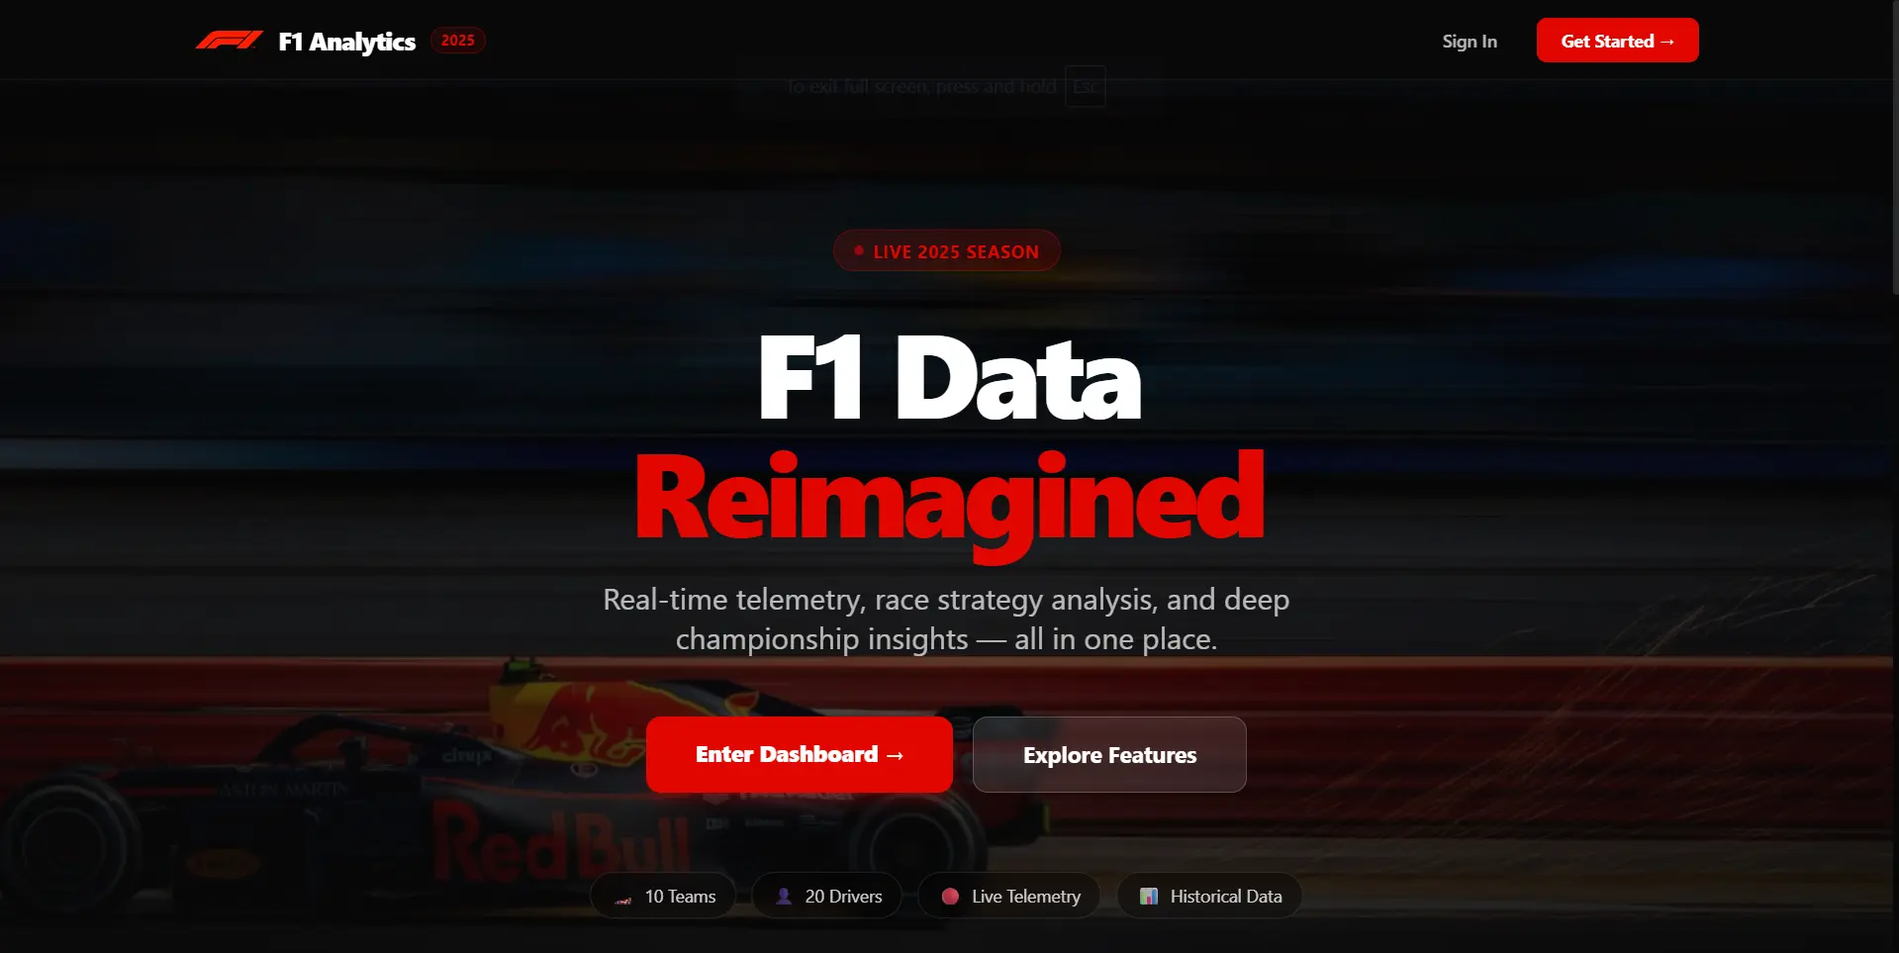
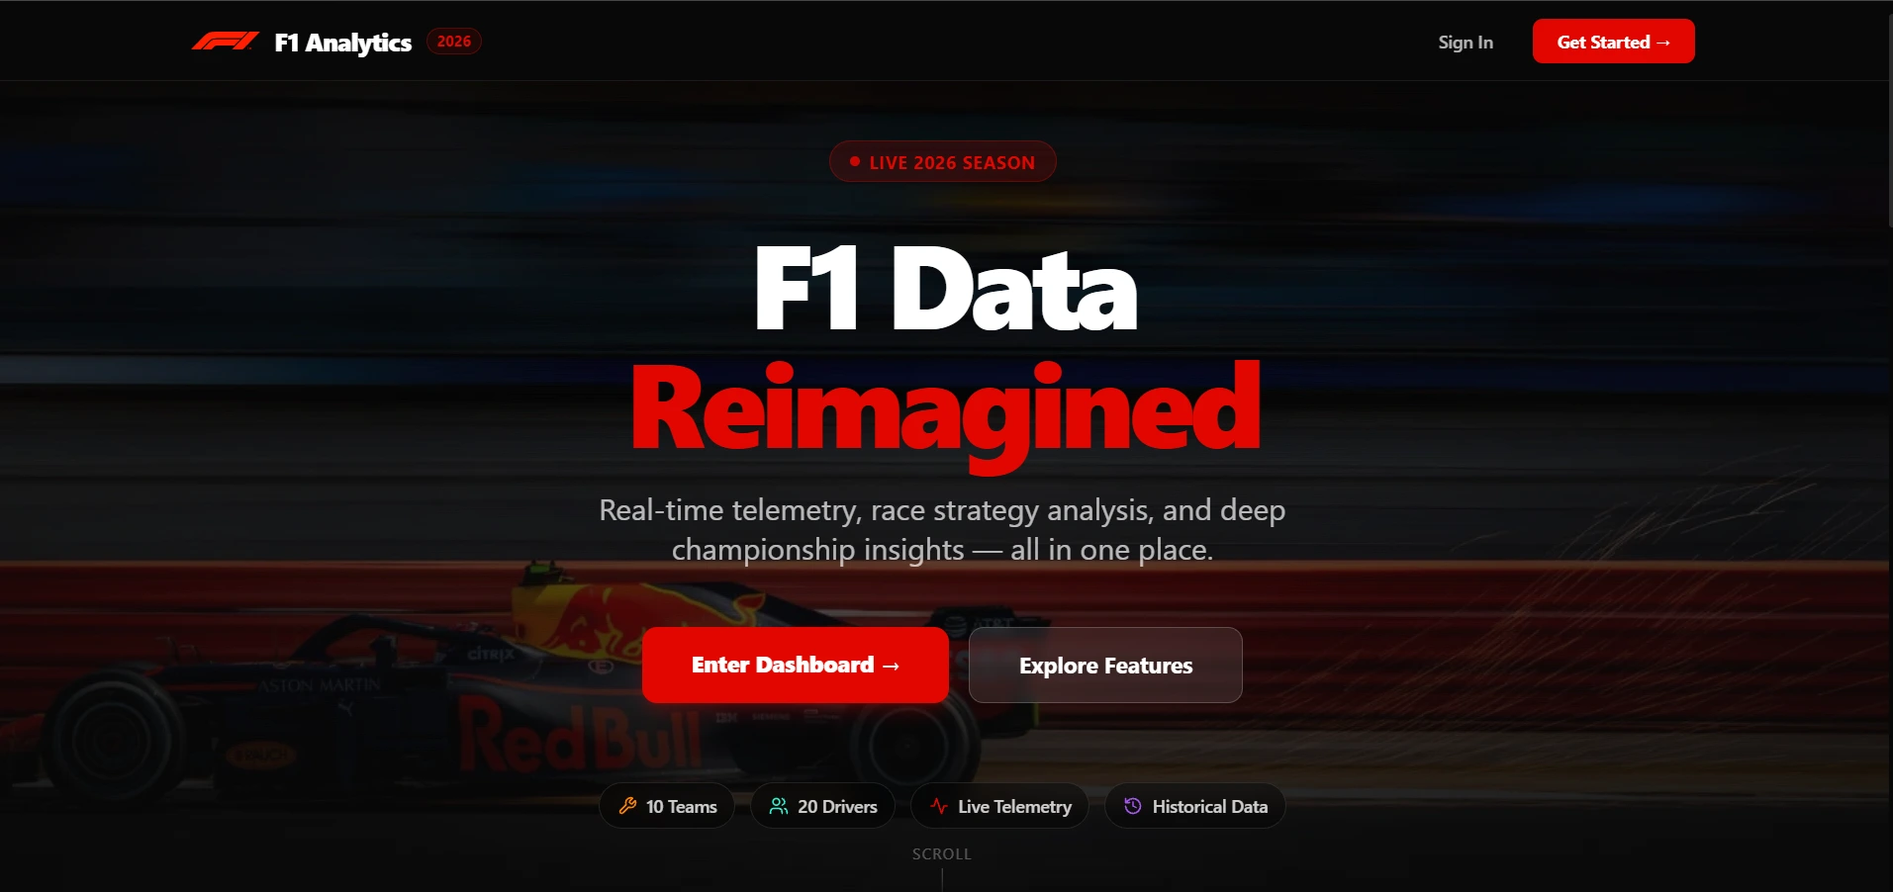
Refactor code structure for improved readability and maintainability

diff --git a/index.html b/index.html
@@ -20,7 +20,7 @@
   <meta name="keywords" content="Md. Jahidul Hasan, Md Jahidul Hasan, Mohammad Jahidul Hasan, Jahidul Hasan, Jahid Hasan, iammjh, iammjh.io, Jahidul Hasan BRACU, Jahidul Hasan BRAC University, BRAC University CS, BRAC University Computer Science, Backend Developer Bangladesh, Python Developer Dhaka, BUCC Executive, BUCC Assistant Director Event Management, Jahid backend developer, Jahidul Hasan GitHub, Jahidul Hasan portfolio" />
   <meta name="author" content="Md. Jahidul Hasan" />
   <meta name="robots" content="index, follow, max-image-preview:large" />
-  <link rel="image_src" href="https://iammjh.github.io/assets/mjahidul.jpg" />
+  <link rel="image_src" href="https://iammjh.github.io/assets/mjahidul.webp" />
 
   <!-- Google -->
   <meta name="google-site-verification" content="q9c3Bb6OedeqilD11PNTs4IgS_AJhRVNldypH9ippzw" />
@@ -30,8 +30,8 @@
   <meta property="og:url" content="https://iammjh.github.io/" />
   <meta property="og:title" content="Md. Jahidul Hasan — BRAC University CS Graduate | Backend Developer | AI/ML Enthusiast" />
   <meta property="og:description" content="Computer Science Graduate & Backend Developer from BRAC University. Building F1 Analytics Hub (full-stack Formula 1 platform) + 12 projects. Python | JavaScript | Next.js | MongoDB | FastAPI | AI/ML" />
-  <meta property="og:image" content="https://iammjh.github.io/assets/mjahidul.jpg" />
-  <meta property="og:image:secure_url" content="https://iammjh.github.io/assets/mjahidul.jpg" />
+  <meta property="og:image" content="https://iammjh.github.io/assets/mjahidul.webp" />
+  <meta property="og:image:secure_url" content="https://iammjh.github.io/assets/mjahidul.webp" />
   <meta property="profile:first_name" content="Jahidul" />
   <meta property="profile:last_name" content="Hasan" />
   <meta property="profile:username" content="iammjh" />
@@ -41,8 +41,8 @@
   <meta property="twitter:card" content="summary_large_image" />
   <meta property="twitter:url" content="https://iammjh.github.io/" />
   <meta property="twitter:title" content="Md. Jahidul Hasan — BRAC University CS Graduate | Backend Developer | AI/ML Enthusiast" />
-  <meta property="twitter:description" content="Computer Science Graduate | Backend Developer | Full-Stack Engineer. Currently building F1 Analytics Hub. Python, JavaScript, Next.js, FastAPI, MongoDB, AI/ML." />
-  <meta property="twitter:image" content="https://iammjh.github.io/assets/mjahidul.jpg" />
+  <meta property="twitter:description" content="Computer Science Graduate | Backend Developer | Full-Stack Engineer. Actively developing F1 Analytics Hub. Python, JavaScript, Next.js, FastAPI, MongoDB, AI/ML." />
+  <meta property="twitter:image" content="https://iammjh.github.io/assets/mjahidul.webp" />
   <meta property="twitter:creator" content="@iammjh" />
   <meta name="twitter:site" content="@iammjh" />
 
@@ -80,13 +80,13 @@
       "name": "Bangladesh"
     },
     "jobTitle": ["Backend Developer", "Computer Science Graduate"],
-    "description": "Md. Jahidul Hasan is a Computer Science graduate from BRAC University (Class of 2026), Department of Computer Science and Engineering, specializing in Full-Stack Development. Currently building F1 Analytics Hub (Formula 1 analytics platform with Next.js & backend services). Former Assistant Director of Event Management at BUCC (Dec 2024 – Feb 2026). Skills: Python, JavaScript, Next.js, FastAPI, MongoDB, AI/ML. Based in Dhaka, Bangladesh.",
+    "description": "Md. Jahidul Hasan is a Computer Science graduate from BRAC University (Class of 2026), Department of Computer Science and Engineering, specializing in Full-Stack Development. Actively developing F1 Analytics Hub (live Formula 1 analytics platform with Next.js & backend services). Former Assistant Director of Event Management at BUCC (Dec 2024 – Feb 2026). Skills: Python, JavaScript, Next.js, FastAPI, MongoDB, AI/ML. Based in Dhaka, Bangladesh.",
     "disambiguatingDescription": "Computer Science graduate from BRAC University (Class of 2026), not the clinical pharmacist or IT healthcare specialist",
     "url": "https://iammjh.github.io/",
     "mainEntityOfPage": "https://iammjh.github.io/",
     "image": {
       "@type": "ImageObject",
-      "url": "https://iammjh.github.io/assets/mjahidul.jpg",
+      "url": "https://iammjh.github.io/assets/mjahidul.webp",
       "caption": "Md. Jahidul Hasan - Backend Developer & Computer Science Graduate from BRAC University"
     },
     "email": "mohammadjahidulhasan@icloud.com",
@@ -363,11 +363,11 @@
     "name": "Md. Jahidul Hasan — Backend Developer & Computer Science Graduate Portfolio",
     "description": "Professional portfolio of Md. Jahidul Hasan, showcasing backend development projects, skills, and leadership experience at BRAC University.",
     "url": "https://iammjh.github.io/",
-    "image": "https://iammjh.github.io/assets/mjahidul.jpg",
-    "thumbnailUrl": "https://iammjh.github.io/assets/mjahidul.jpg",
+    "image": "https://iammjh.github.io/assets/mjahidul.webp",
+    "thumbnailUrl": "https://iammjh.github.io/assets/mjahidul.webp",
     "primaryImageOfPage": {
       "@type": "ImageObject",
-      "url": "https://iammjh.github.io/assets/mjahidul.jpg"
+      "url": "https://iammjh.github.io/assets/mjahidul.webp"
     },
     "dateCreated": "2024-01-01T00:00:00+06:00",
     "dateModified": "2026-07-02T00:00:00+06:00",
@@ -466,9 +466,9 @@
             "@id": "https://iammjh.github.io/#person"
           },
           "codeRepository": "https://github.com/iammjh/f1-analytics",
-          "url": "https://github.com/iammjh/f1-analytics",
+          "url": "https://f1-analytic.vercel.app/",
           "keywords": "Formula 1, F1, Analytics, Dashboard, Next.js, FastAPI, Real-time, Racing",
-          "status": "In Development"
+          "status": "Live - Active Development"
         }
       },
       {
@@ -734,7 +734,7 @@
 
       <div class="hero-bottom">
         <p class="hero-desc" id="heroDesc">
-          Computer Science graduate from <strong>BRAC University</strong> crafting backend systems, building full-stack products, and previously led event operations at BUCC for <strong>1400+ members</strong>. Currently building the F1 Analytics Hub.
+          Computer Science graduate from <strong>BRAC University</strong> crafting backend systems, building full-stack products, and previously led event operations at BUCC for <strong>1400+ members</strong>. Actively developing the F1 Analytics Hub.
         </p>
 
         <div class="hero-stats" id="heroStats">
@@ -867,7 +867,7 @@
           <h2 class="about-h dly-10" data-reveal="left">Building systems,<br>not just code.</h2>
           <div class="about-bio dly-20" data-reveal="left">
             <p>I'm a Computer Science graduate from <strong>BRAC University (Class of 2026)</strong>, under the Department of Computer Science & Engineering, who sits at the intersection of engineering and leadership. My backend work focuses on scalable, well-structured systems — not just getting things to work, but getting them to last.</p>
-            <p>Currently leading development on the <strong>F1 Analytics Hub</strong>, a full-stack Formula 1 platform with live dashboards, race telemetry, and personalized watchlists. I served as Assistant Director of Event Management at BUCC through February 2026, overseeing operations across 7 departments.</p>
+            <p>Actively developing the <strong>F1 Analytics Hub</strong>, a live full-stack Formula 1 platform with dashboards, race telemetry, and personalized watchlists. I served as Assistant Director of Event Management at BUCC through February 2026, overseeing operations across 7 departments.</p>
             <p>I believe the best engineers are also communicators and coordinators. That's the kind of developer I'm building myself into.</p>
           </div>
           <div class="about-stats-row dly-35" data-reveal="left">
@@ -893,7 +893,7 @@
           <div class="info-row"><span class="info-key">Email</span><span class="info-val"><a href="mailto:mohammadjahidulhasan@icloud.com">mohammadjahidulhasan@icloud.com</a></span></div>
         </div>
         <div class="edu-block">
-          <div class="edu-icon">🎓</div>
+          <div class="edu-icon"><svg class="pico" viewBox="0 0 24 24" fill="none" stroke="currentColor" stroke-width="1.5" stroke-linecap="round" stroke-linejoin="round" aria-hidden="true"><path d="M22 10 12 5 2 10l10 5 10-5z"/><path d="M6 12v5c0 0 3 3 6 3s6-3 6-3v-5"/><path d="M22 10v6"/></svg></div>
           <div class="edu-body">
             <h4>B.Sc. in Computer Science</h4>
             <p>Dept. of Computer Science & Engineering · BRAC University, Dhaka</p>
@@ -980,7 +980,7 @@
 
         <div class="ach-card">
           <div class="ach-top">
-            <div class="ach-icon-wrap">🏛</div>
+            <div class="ach-icon-wrap"><svg class="pico" viewBox="0 0 24 24" fill="none" stroke="currentColor" stroke-width="1.5" stroke-linecap="round" stroke-linejoin="round" aria-hidden="true"><path d="M3 21h18"/><path d="M6 21V7l8-4v18"/><path d="M18 21V11l-6-4"/><path d="M9 9h.01"/><path d="M9 12h.01"/><path d="M9 15h.01"/><path d="M9 18h.01"/></svg></div>
             <span class="ach-year">2020</span>
           </div>
           <div class="ach-title">General Scholarship</div>
@@ -994,7 +994,7 @@
 
         <div class="ach-card dly-10">
           <div class="ach-top">
-            <div class="ach-icon-wrap">⭐</div>
+            <div class="ach-icon-wrap"><svg class="pico" viewBox="0 0 24 24" fill="none" stroke="currentColor" stroke-width="1.5" stroke-linecap="round" stroke-linejoin="round" aria-hidden="true"><polygon points="12 2 15.09 8.26 22 9.27 17 14.14 18.18 21.02 12 17.77 5.82 21.02 7 14.14 2 9.27 8.91 8.26 12 2"/></svg></div>
             <span class="ach-year">2012</span>
           </div>
           <div class="ach-title">Talent Pool Scholarship</div>
@@ -1049,15 +1049,15 @@
           <div class="ps-img">
             <img src="assets/f1-analytics.webp" alt="F1 Analytics Hub" loading="eager">
             <span class="ps-num">01</span>
-            <span class="ps-badge ps-badge--t">Working On It</span>
+            <span class="ps-badge ps-badge--t">Live + Improving</span>
           </div>
           <div class="ps-info">
             <div class="ps-tags"><span class="tag tag-t">Next.js</span><span class="tag tag-w">Full-Stack</span><span class="tag tag-w">Analytics</span></div>
             <div class="ps-title">F1 Analytics Hub</div>
             <p class="ps-desc">Full-stack Formula 1 analytics platform — live dashboards, race telemetry, personalized watchlists, and real-time polling. My most ambitious build.</p>
             <div class="ps-links">
+              <a href="https://f1-analytic.vercel.app/" target="_blank" rel="noopener noreferrer" class="ps-link">Live ↗</a>
               <a href="https://github.com/iammjh/f1-analytics" target="_blank" rel="noopener noreferrer" class="ps-link">GitHub ↗</a>
-              <span class="ps-link ps-link--dim">In Development</span>
             </div>
           </div>
         </div>
@@ -1278,7 +1278,7 @@
 
       <!-- CARD 1 — always visible -->
       <div class="ac dly-05" data-reveal>
-        <div class="ac-head"><div class="ac-icon">👥</div><span class="ac-date">Dec 2024 – Feb 2026</span></div>
+        <div class="ac-head"><div class="ac-icon"><svg class="pico" viewBox="0 0 24 24" fill="none" stroke="currentColor" stroke-width="1.5" stroke-linecap="round" stroke-linejoin="round" aria-hidden="true"><path d="M16 21v-2a4 4 0 0 0-4-4H6a4 4 0 0 0-4 4v2"/><circle cx="9" cy="7" r="4"/><path d="M22 21v-2a4 4 0 0 0-3-3.87"/><path d="M16 3.13a4 4 0 0 1 0 7.75"/></svg></div><span class="ac-date">Dec 2024 – Feb 2026</span></div>
         <span class="ac-badge ab-e">Executive Body</span>
         <h3>BRAC University Computer Club</h3>
         <div class="ac-sub">Assistant Director — Event Management</div>
@@ -1288,7 +1288,7 @@
 
       <!-- CARD 2 — always visible -->
       <div class="ac dly-10" data-reveal>
-        <div class="ac-head"><div class="ac-icon">⌨</div><span class="ac-date">July 2025</span></div>
+        <div class="ac-head"><div class="ac-icon ac-icon--warm"><svg class="pico" viewBox="0 0 24 24" fill="none" stroke="currentColor" stroke-width="1.5" stroke-linecap="round" stroke-linejoin="round" aria-hidden="true"><polyline points="16 18 22 12 16 6"/><polyline points="8 6 2 12 8 18"/></svg></div><span class="ac-date">July 2025</span></div>
         <span class="ac-badge ab-o">Organizer</span>
         <h3>BUCC Bit Battles</h3>
         <div class="ac-sub">Intra BRAC University Programming Contest</div>
@@ -1298,7 +1298,7 @@
 
       <!-- CARD 3 — always visible -->
       <div class="ac dly-15" data-reveal>
-        <div class="ac-head"><div class="ac-icon">🏢</div><span class="ac-date">Dec 2024</span></div>
+        <div class="ac-head"><div class="ac-icon"><svg class="pico" viewBox="0 0 24 24" fill="none" stroke="currentColor" stroke-width="1.5" stroke-linecap="round" stroke-linejoin="round" aria-hidden="true"><rect x="4" y="2" width="16" height="20" rx="2"/><path d="M9 22v-4h6v4"/><path d="M8 6h.01"/><path d="M16 6h.01"/><path d="M12 6h.01"/><path d="M12 10h.01"/><path d="M12 14h.01"/><path d="M16 10h.01"/><path d="M16 14h.01"/><path d="M8 10h.01"/><path d="M8 14h.01"/></svg></div><span class="ac-date">Dec 2024</span></div>
         <span class="ac-badge ab-v">Executive Volunteer</span>
         <h3>TechConnect Career Fair</h3>
         <div class="ac-sub">Engineering & CS — Executive Volunteer</div>
@@ -1308,7 +1308,7 @@
 
       <!-- CARD 4 — always visible -->
       <div class="ac dly-20" data-reveal>
-        <div class="ac-head"><div class="ac-icon">⚡</div><span class="ac-date">Nov 2024</span></div>
+        <div class="ac-head"><div class="ac-icon ac-icon--warm"><svg class="pico" viewBox="0 0 24 24" fill="none" stroke="currentColor" stroke-width="1.5" stroke-linecap="round" stroke-linejoin="round" aria-hidden="true"><polygon points="13 2 3 14 12 14 11 22 21 10 12 10 13 2"/></svg></div><span class="ac-date">Nov 2024</span></div>
         <span class="ac-badge ab-v">Volunteer</span>
         <h3>IntraHacktive 1.0</h3>
         <div class="ac-sub">University Hackathon</div>
@@ -1318,7 +1318,7 @@
 
       <!-- CARD 5 — hidden, revealed on click -->
       <div class="ac ac-extra dly-05" data-reveal>
-        <div class="ac-head"><div class="ac-icon">🏃</div><span class="ac-date">School & College</span></div>
+        <div class="ac-head"><div class="ac-icon"><svg class="pico" viewBox="0 0 24 24" fill="none" stroke="currentColor" stroke-width="1.5" stroke-linecap="round" stroke-linejoin="round" aria-hidden="true"><circle cx="12" cy="5" r="2"/><path d="M10 22V16l-2-4 4-2 4 2-2 4v6"/></svg></div><span class="ac-date">School & College</span></div>
         <span class="ac-badge ab-c">Podium</span>
         <h3>Annual Sports Day — Long Jump</h3>
         <div class="ac-sub">Consecutive Placements, Track & Field</div>
@@ -1326,12 +1326,12 @@
         <div class="ac-thumbs">
           <img src="assets/longjump.webp" alt="Long Jump" class="ac-thumb" data-modal-open="#modal-longjump" data-nosnippet>
         </div>
-        <div class="ac-stats"><div><span class="acstat-v">2+</span><span class="acstat-l">Consecutive</span></div><div><span class="acstat-v">🥇🥈</span><span class="acstat-l">Placements</span></div></div>
+        <div class="ac-stats"><div><span class="acstat-v">2+</span><span class="acstat-l">Consecutive</span></div><div><span class="acstat-v">1st·2nd</span><span class="acstat-l">Placements</span></div></div>
       </div>
 
       <!-- CARD 6 — hidden, revealed on click -->
       <div class="ac ac-extra dly-10" data-reveal>
-        <div class="ac-head"><div class="ac-icon">🏆</div><span class="ac-date">BRAC University</span></div>
+        <div class="ac-head"><div class="ac-icon ac-icon--warm"><svg class="pico" viewBox="0 0 24 24" fill="none" stroke="currentColor" stroke-width="1.5" stroke-linecap="round" stroke-linejoin="round" aria-hidden="true"><path d="M6 9H4.5a2.5 2.5 0 0 1 0-5H6"/><path d="M18 9h1.5a2.5 2.5 0 0 0 0-5H18"/><path d="M4 22h16"/><path d="M10 22V11"/><path d="M14 22V11"/><path d="M8 9h8v4a4 4 0 0 1-8 0V9z"/></svg></div><span class="ac-date">BRAC University</span></div>
         <span class="ac-badge ab-c">Champion</span>
         <h3>Basketball Tournament</h3>
         <div class="ac-sub">RS Sports Events — Inter-House Championship</div>
@@ -1340,7 +1340,7 @@
           <img src="assets/basketball.webp" alt="Basketball Tournament" class="ac-thumb" data-modal-open="#modal-basketball-1" data-nosnippet>
           <img src="assets/thropy.webp" alt="Trophy" class="ac-thumb" data-modal-open="#modal-basketball-2" data-nosnippet>
         </div>
-        <div class="ac-stats"><div><span class="acstat-v">🏆</span><span class="acstat-l">Champion</span></div></div>
+        <div class="ac-stats"><div><span class="acstat-v"><svg class="pico" viewBox="0 0 24 24" fill="none" stroke="currentColor" stroke-width="1.5" stroke-linecap="round" stroke-linejoin="round" aria-hidden="true"><path d="M6 9H4.5a2.5 2.5 0 0 1 0-5H6"/><path d="M18 9h1.5a2.5 2.5 0 0 0 0-5H18"/><path d="M4 22h16"/><path d="M10 22V11"/><path d="M14 22V11"/><path d="M8 9h8v4a4 4 0 0 1-8 0V9z"/></svg></span><span class="acstat-l">Champion</span></div></div>
       </div>
 
       <!-- SHOW MORE button row -->
@@ -1408,7 +1408,7 @@
           <div class="fg"><label for="em">Email</label><input class="fi" type="email" id="em" name="email" placeholder="you@example.com" required></div>
           <div class="fg"><label for="msg">Message</label><textarea class="fta" id="msg" name="message" placeholder="Tell me about your project or opportunity..." required></textarea></div>
           <input type="hidden" name="_captcha" value="false">
-          <input type="hidden" name="_autoresponse" value="Hi there! 👋&#10;&#10;Thanks for reaching out! I've received your message and will get back to you as soon as possible.&#10;&#10;In the meantime, feel free to check out my GitHub (github.com/iammjh) or LinkedIn (linkedin.com/in/iammjh) to learn more about my work.&#10;&#10;Best regards,&#10;Md. Jahidul Hasan&#10;Backend Developer | B.Sc. Computer Science, BRAC University">
+          <input type="hidden" name="_autoresponse" value="Hi there!&#10;&#10;Thanks for reaching out! I've received your message and will get back to you as soon as possible.&#10;&#10;In the meantime, feel free to check out my GitHub (github.com/iammjh) or LinkedIn (linkedin.com/in/iammjh) to learn more about my work.&#10;&#10;Best regards,&#10;Md. Jahidul Hasan&#10;Backend Developer | B.Sc. Computer Science, BRAC University">
           <button type="submit" class="fs">Send Message →</button>
         </form>
       </div>
@@ -1421,7 +1421,7 @@
 <!-- ══════════════ SUCCESS POPUP ══════════════ -->
 <div class="success-popup" id="successPopup">
   <div class="success-popup-content">
-    <div class="success-popup-icon">✓</div>
+    <div class="success-popup-icon"><svg class="pico" viewBox="0 0 24 24" fill="none" stroke="currentColor" stroke-width="2.5" stroke-linecap="round" stroke-linejoin="round" aria-hidden="true"><polyline points="20 6 9 17 4 12"/></svg></div>
     <div class="success-popup-message">Message Sent Successfully!</div>
     <p class="success-popup-subtitle">Thank you for reaching out. I'll get back to you soon.</p>
     <button class="success-popup-close" type="button" data-popup-close>×</button>

diff --git a/style.css b/style.css
@@ -563,8 +563,27 @@ body.cur-link .cursor-ring{width:64px;height:64px;background:rgba(232,147,74,.07
 .edu-icon{
   width:48px;height:48px;border-radius:8px;flex-shrink:0;
   background:rgba(232,147,74,.1);border:1px solid rgba(232,147,74,.2);
-  display:flex;align-items:center;justify-content:center;font-size:1.2rem;
+  display:flex;align-items:center;justify-content:center;
+  color:var(--orange);
 }
+.ac-icon{
+  width:46px;height:46px;border-radius:8px;flex-shrink:0;
+  display:flex;align-items:center;justify-content:center;
+  border:1px solid var(--line);background:var(--s2);
+  color:var(--teal);
+}
+.ac-icon--warm{color:var(--orange)}
+.ach-icon-wrap{
+  width:44px;height:44px;border-radius:8px;
+  background:rgba(232,147,74,.08);border:1px solid rgba(232,147,74,.15);
+  display:flex;align-items:center;justify-content:center;
+  color:var(--orange);
+}
+.pico{display:block;flex-shrink:0}
+.edu-icon .pico,.ach-icon-wrap .pico{width:22px;height:22px}
+.ac-icon .pico{width:20px;height:20px}
+.acstat-v .pico{display:inline-block;width:1.1em;height:1.1em;vertical-align:-2px}
+.success-popup-icon .pico{width:28px;height:28px}
 .edu-body h4{font-family:'Bricolage Grotesque',sans-serif;font-weight:700;font-size:1rem;margin-bottom:3px;color:var(--text)}
 .edu-body p{font-size:.82rem;color:var(--muted)}
 .edu-year{margin-top:8px;font-size:.72rem;font-weight:700;color:var(--orange);letter-spacing:.04em}
@@ -877,11 +896,6 @@ body.cur-link .cursor-ring{width:64px;height:64px;background:rgba(232,147,74,.07
 .ac:hover{transform:translateY(-6px);border-color:rgba(232,147,74,.2);box-shadow:0 20px 48px rgba(0,0,0,.45);background:var(--accent-soft)}
 .ac:hover::before{opacity:1}
 .ac-head{display:flex;align-items:flex-start;justify-content:space-between;gap:12px;margin-bottom:16px}
-.ac-icon{
-  width:46px;height:46px;border-radius:8px;flex-shrink:0;
-  display:flex;align-items:center;justify-content:center;font-size:1.1rem;
-  border:1px solid var(--line);background:var(--s2);
-}
 .ac-date{font-size:.72rem;color:var(--dim);font-weight:500;letter-spacing:.03em;white-space:nowrap;margin-top:4px}
 .ac-badge{
   display:inline-block;margin-bottom:10px;
@@ -1128,11 +1142,6 @@ body.cur-link .cursor-ring{width:64px;height:64px;background:rgba(232,147,74,.07
 .ach-card:hover{transform:translateY(-4px);border-color:rgba(232,147,74,.2);box-shadow:0 16px 40px rgba(0,0,0,.4)}
 .ach-card:hover::before{opacity:1}
 .ach-top{display:flex;align-items:center;justify-content:space-between;margin-bottom:12px}
-.ach-icon-wrap{
-  font-size:1.4rem;width:44px;height:44px;border-radius:8px;
-  background:rgba(232,147,74,.08);border:1px solid rgba(232,147,74,.15);
-  display:flex;align-items:center;justify-content:center;
-}
 .ach-year{
   font-size:.72rem;font-weight:700;letter-spacing:.08em;text-transform:uppercase;
   color:var(--dim);background:var(--s2);border:1px solid var(--line);
@@ -1191,8 +1200,7 @@ body.cur-link .cursor-ring{width:64px;height:64px;background:rgba(232,147,74,.07
   width:64px;height:64px;border-radius:50%;
   background:rgba(110,207,207,.15);border:2px solid var(--teal);
   display:flex;align-items:center;justify-content:center;
-  font-size:2.5rem;color:var(--teal);margin:0 auto 20px;
-  font-weight:800;
+  color:var(--teal);margin:0 auto 20px;
   animation:checkmarkBounce .6s cubic-bezier(.16,1,.3,1) .2s backwards;
 }
 @keyframes checkmarkBounce{

diff --git a/sw.js b/sw.js
@@ -8,7 +8,7 @@ const ASSETS_TO_CACHE = [
   '/robots.txt',
   '/sitemap.xml',
   // Warm key visuals so repeat visits render quickly on weak connections.
-  '/assets/mjahidul.jpg',
+  '/assets/mjahidul.webp',
   '/assets/Re_Jahid.webp',
   '/assets/f1-analytics.webp',
   '/assets/tripbloom.webp',
